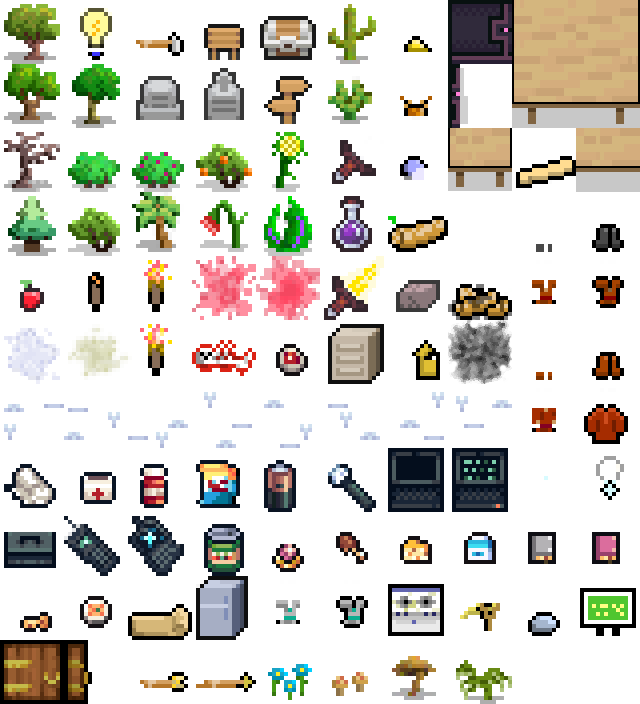
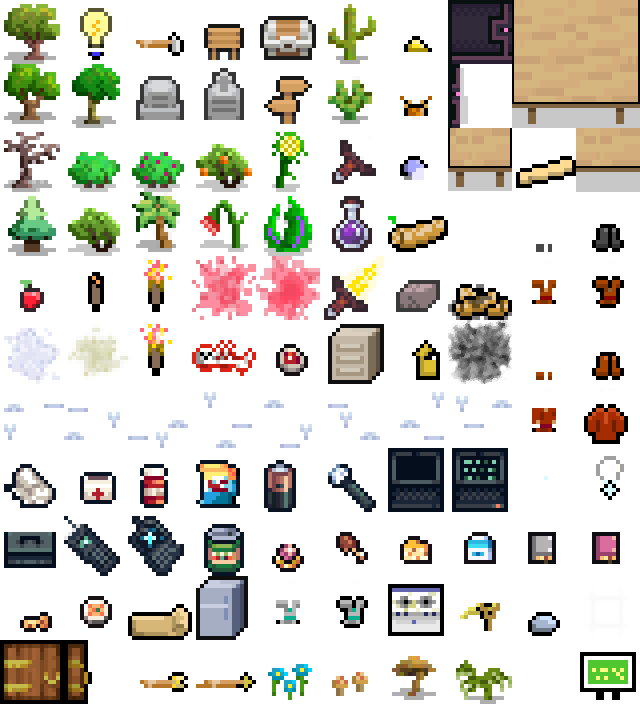
bugfix

Changed region(s): [[0.9062, 0.8125, 1.0, 1.0]]

diff --git a/src/main/kotlin/render/tilesets/ThingTileSet.kt b/src/main/kotlin/render/tilesets/ThingTileSet.kt
@@ -143,5 +143,5 @@ fun ThingTileSet() =
         setTile(Glyph.CACTUS_SMALL, SimpleTile(this, 5, 1))
         setTile(Glyph.CACTUS_BIG, SimpleTile(this, 5, 0))
         setTile(Glyph.HERB_PLANT_1, SimpleTile(this, 7, 10))
-        setTile(Glyph.HIGHWAY_SIGN, SimpleTile(this, 9, 9))
+        setTile(Glyph.HIGHWAY_SIGN, SimpleTile(this, 9, 10))
     }
